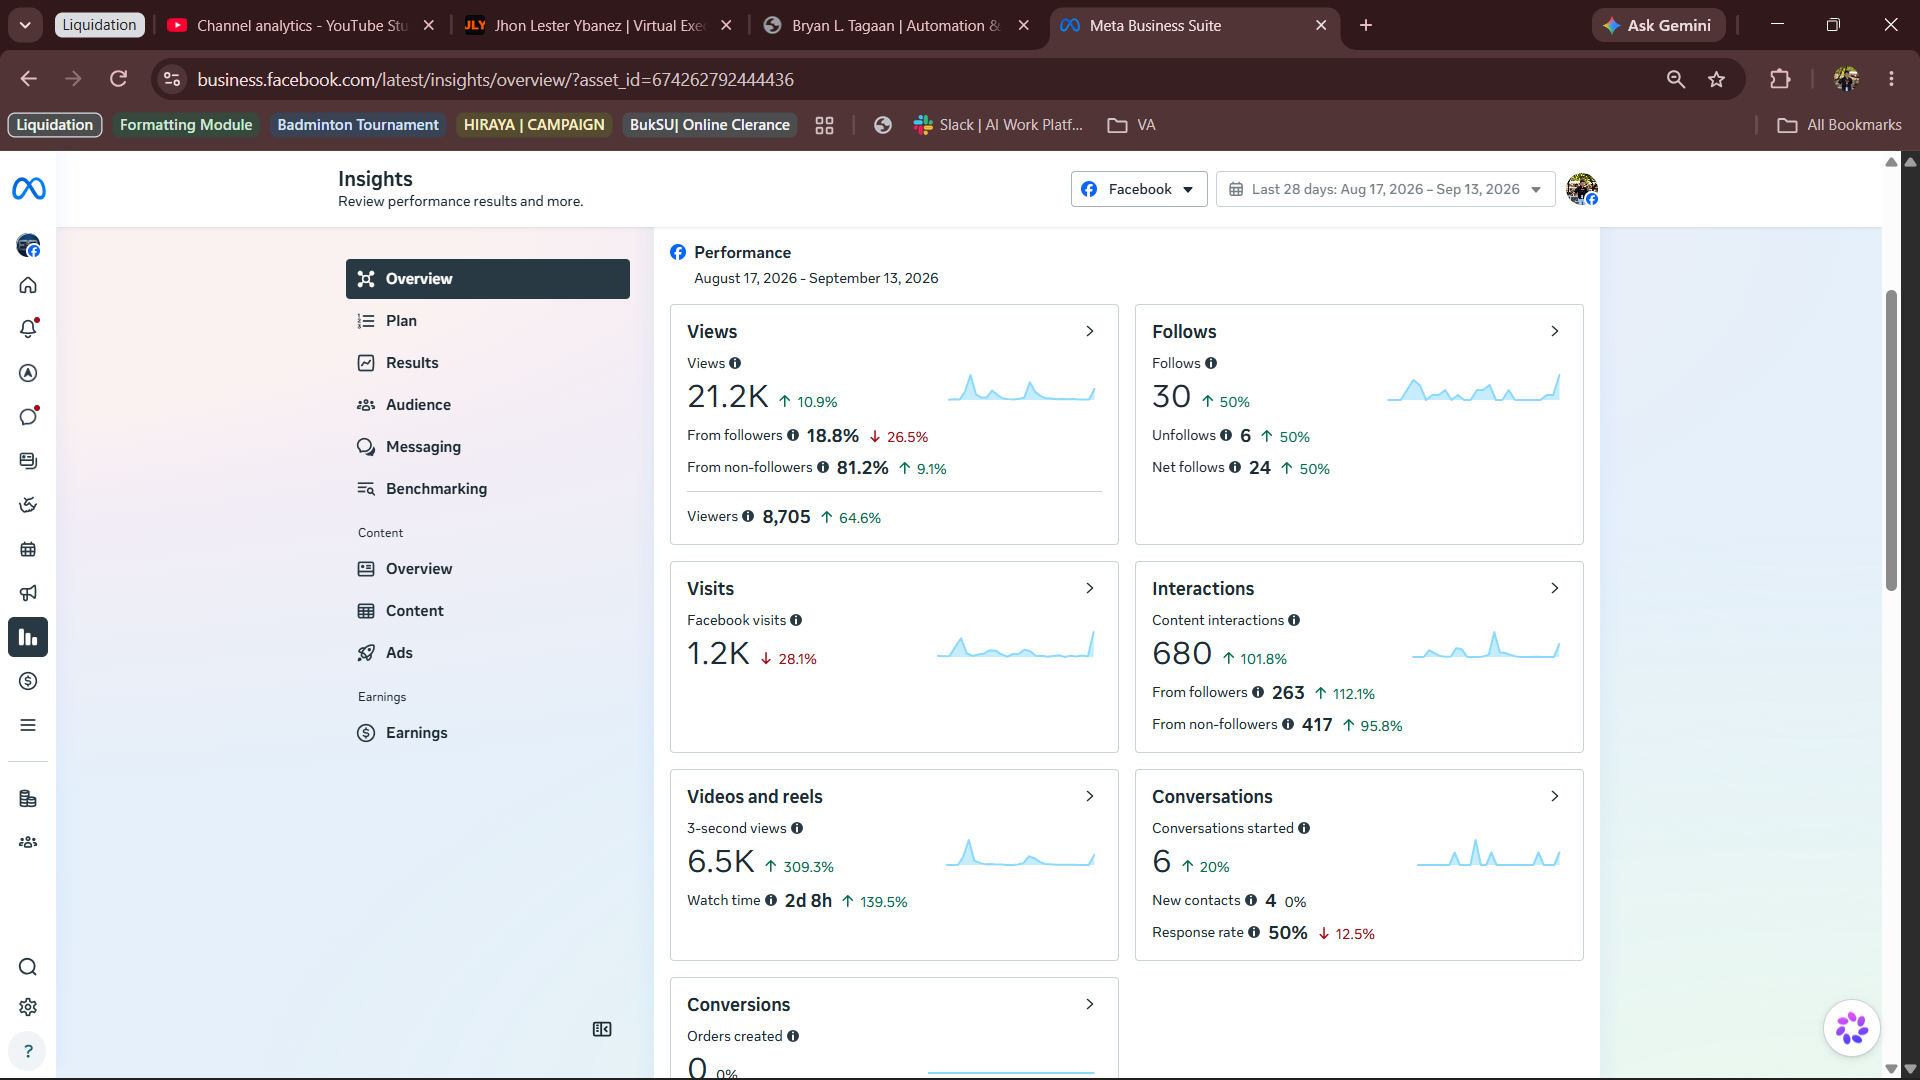
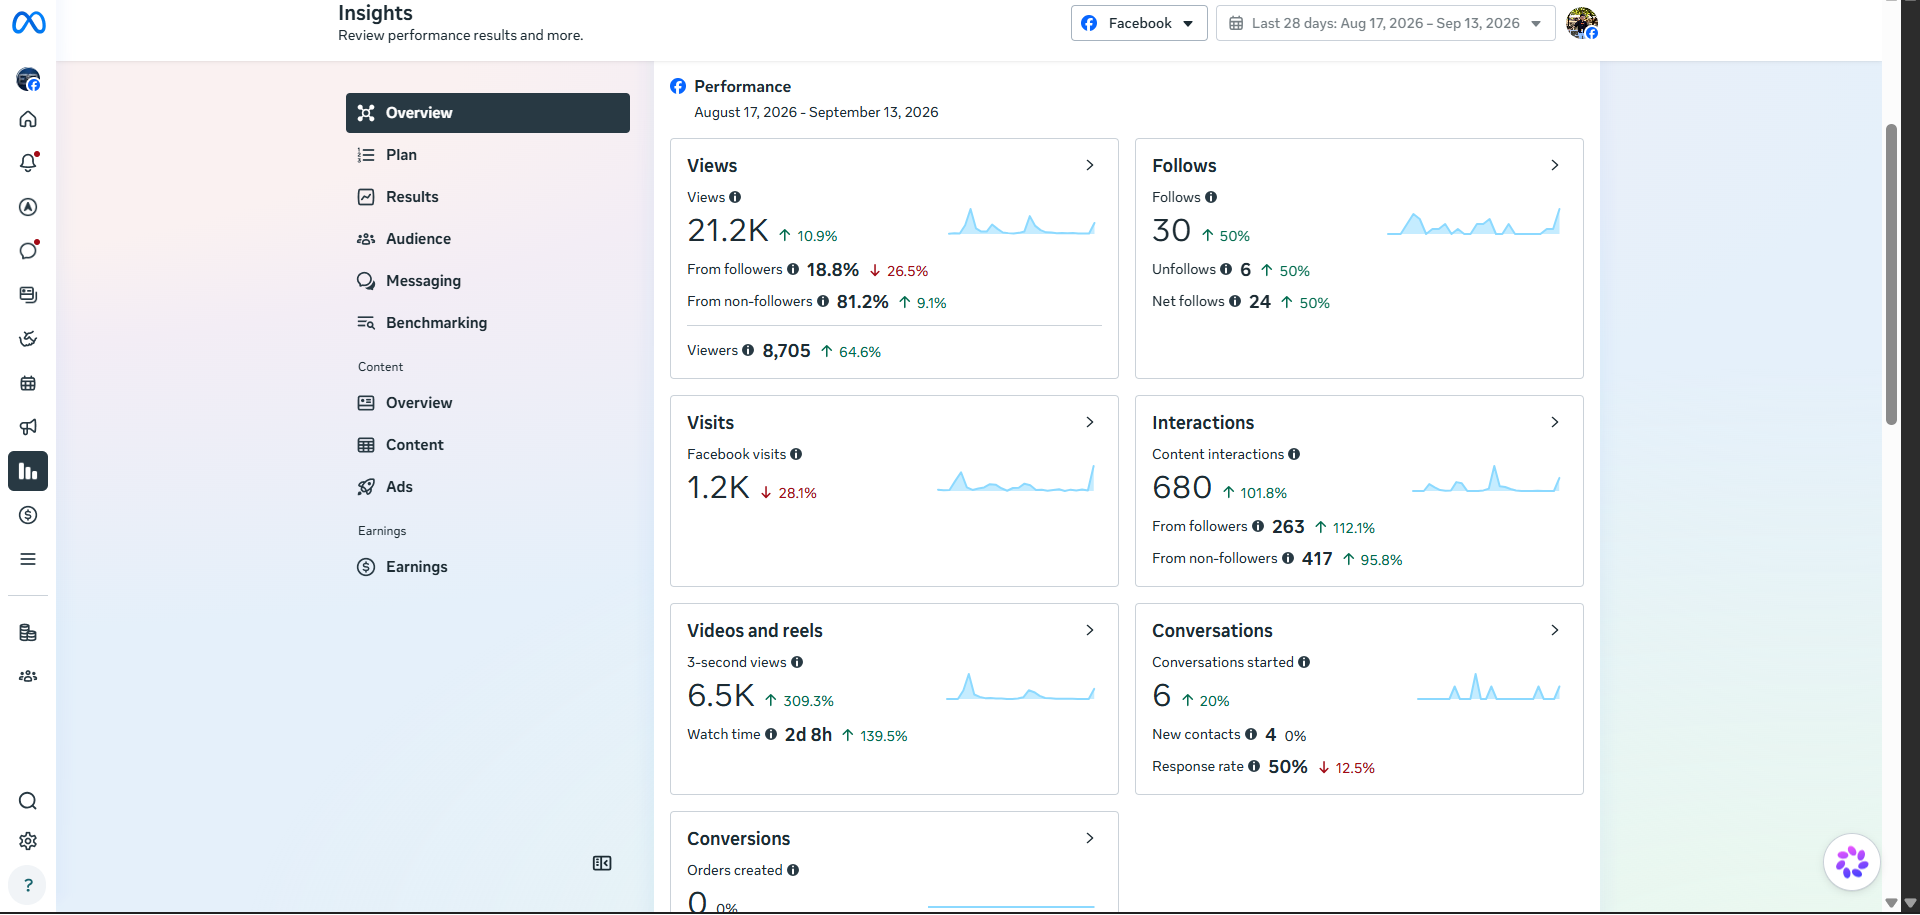
facebook page sample change

diff --git a/index.html b/index.html
@@ -399,11 +399,13 @@
           onclick="openImgModal('assets/Sample Works/Memorandum Sample.png', 'Document Preparation — Official Executive Memorandum')">
           <div class="works-num">04</div>
           <div class="works-badge"><i class="fas fa-file-alt"></i> Official Memo</div>
-          <img src="assets/Sample Works/Memorandum Sample.png" alt="Executive Memorandum" class="works-img" loading="lazy">
+          <img src="assets/Sample Works/Memorandum Sample.png" alt="Executive Memorandum" class="works-img"
+            loading="lazy">
           <div class="works-overlay">
             <span class="works-cat">Document Preparation</span>
             <h3 class="works-title">Official Executive Memorandum</h3>
-            <p class="works-sub">Professional document formatting, official letterhead hierarchy, clear directives &amp; executive communications.</p>
+            <p class="works-sub">Professional document formatting, official letterhead hierarchy, clear directives &amp;
+              executive communications.</p>
             <div class="works-cta"><i class="fas fa-expand-alt"></i> View Full</div>
           </div>
         </div>
